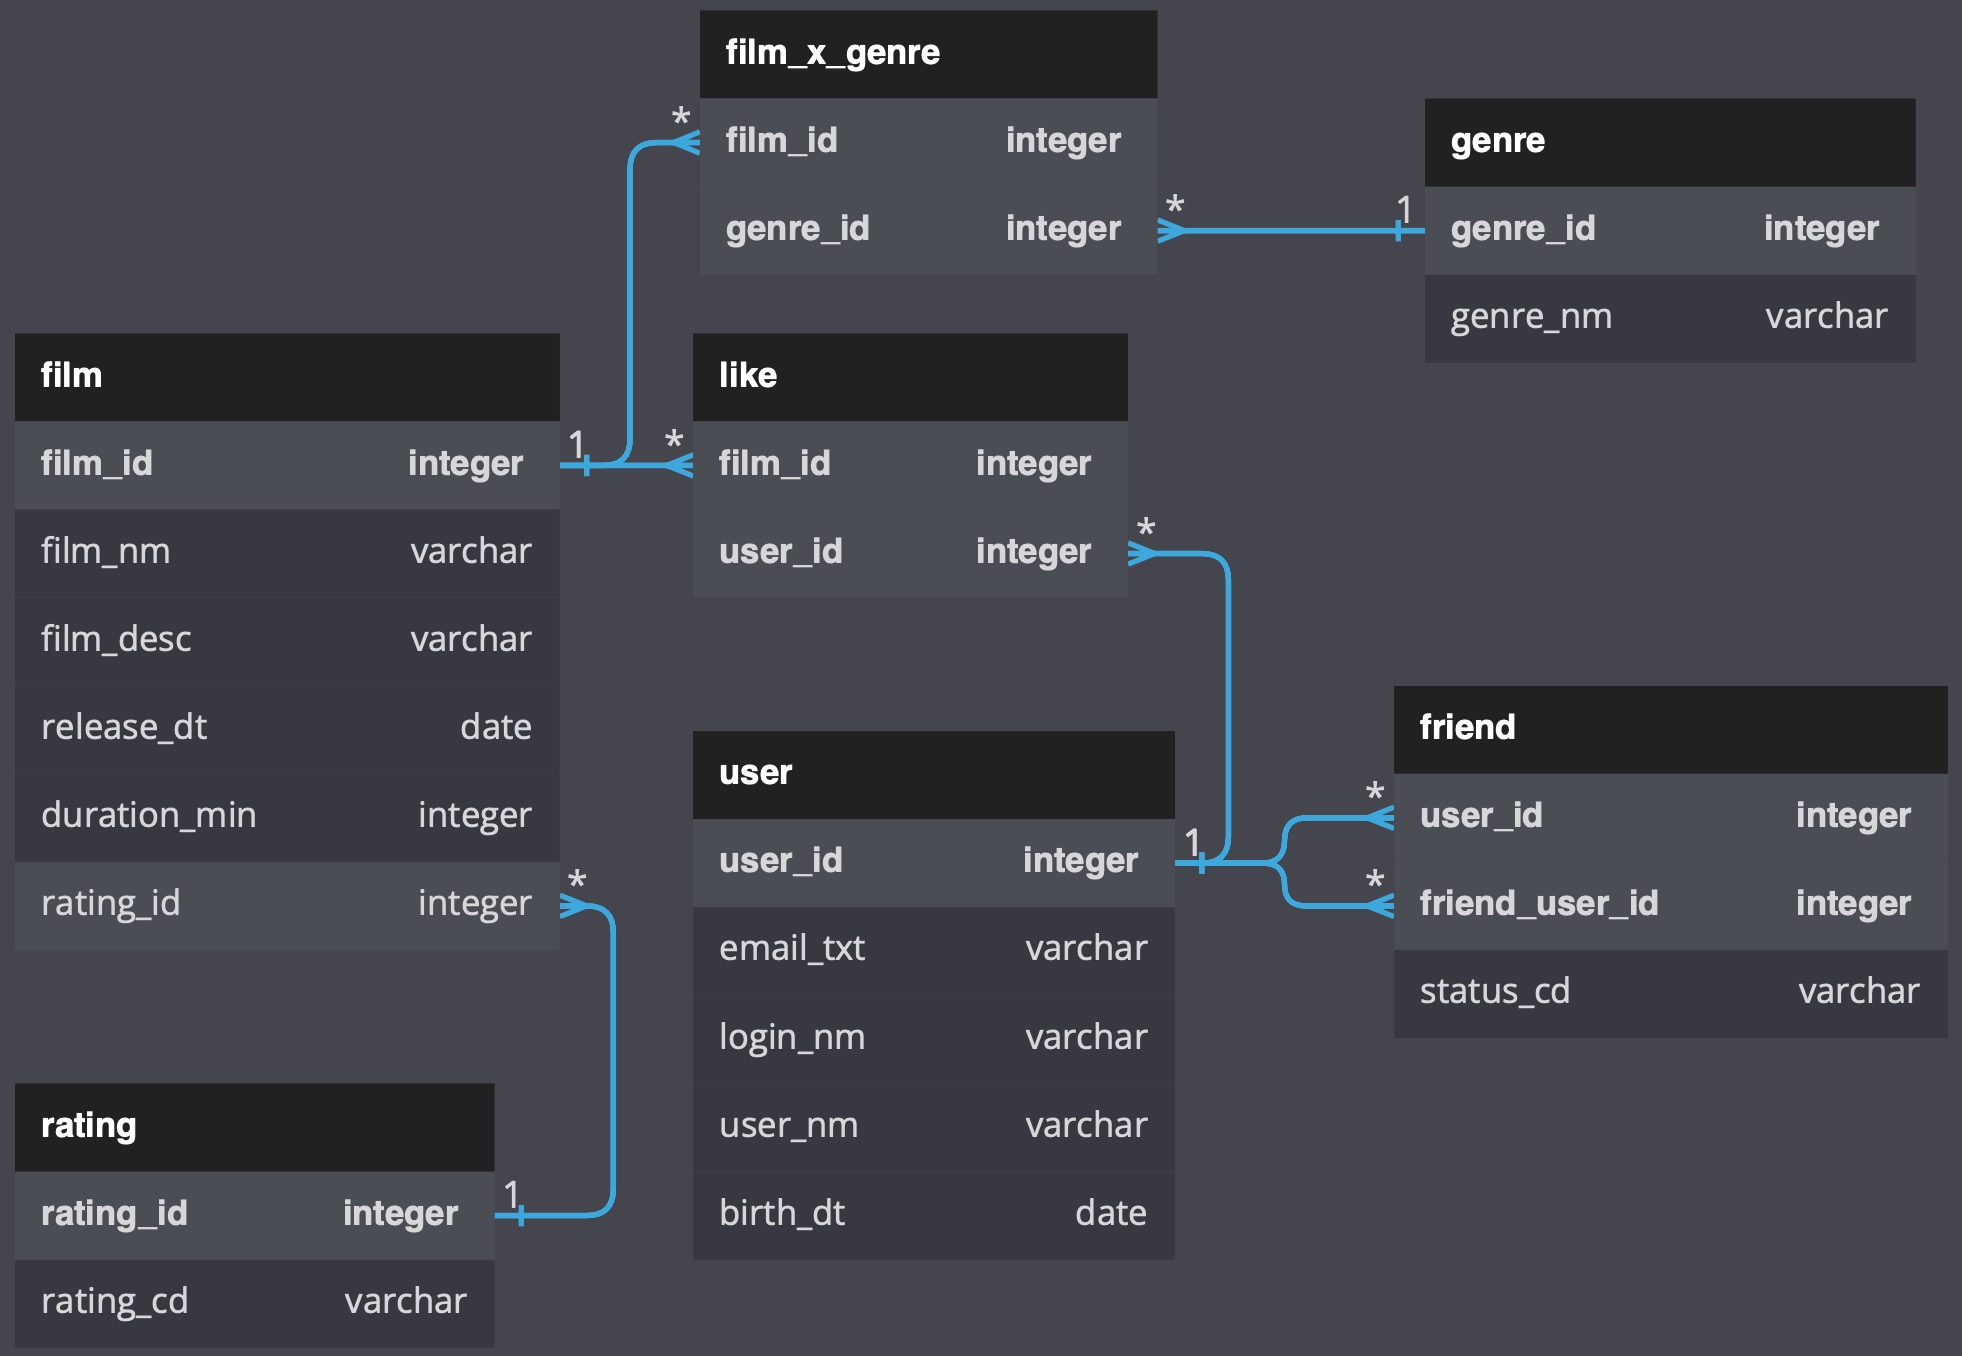
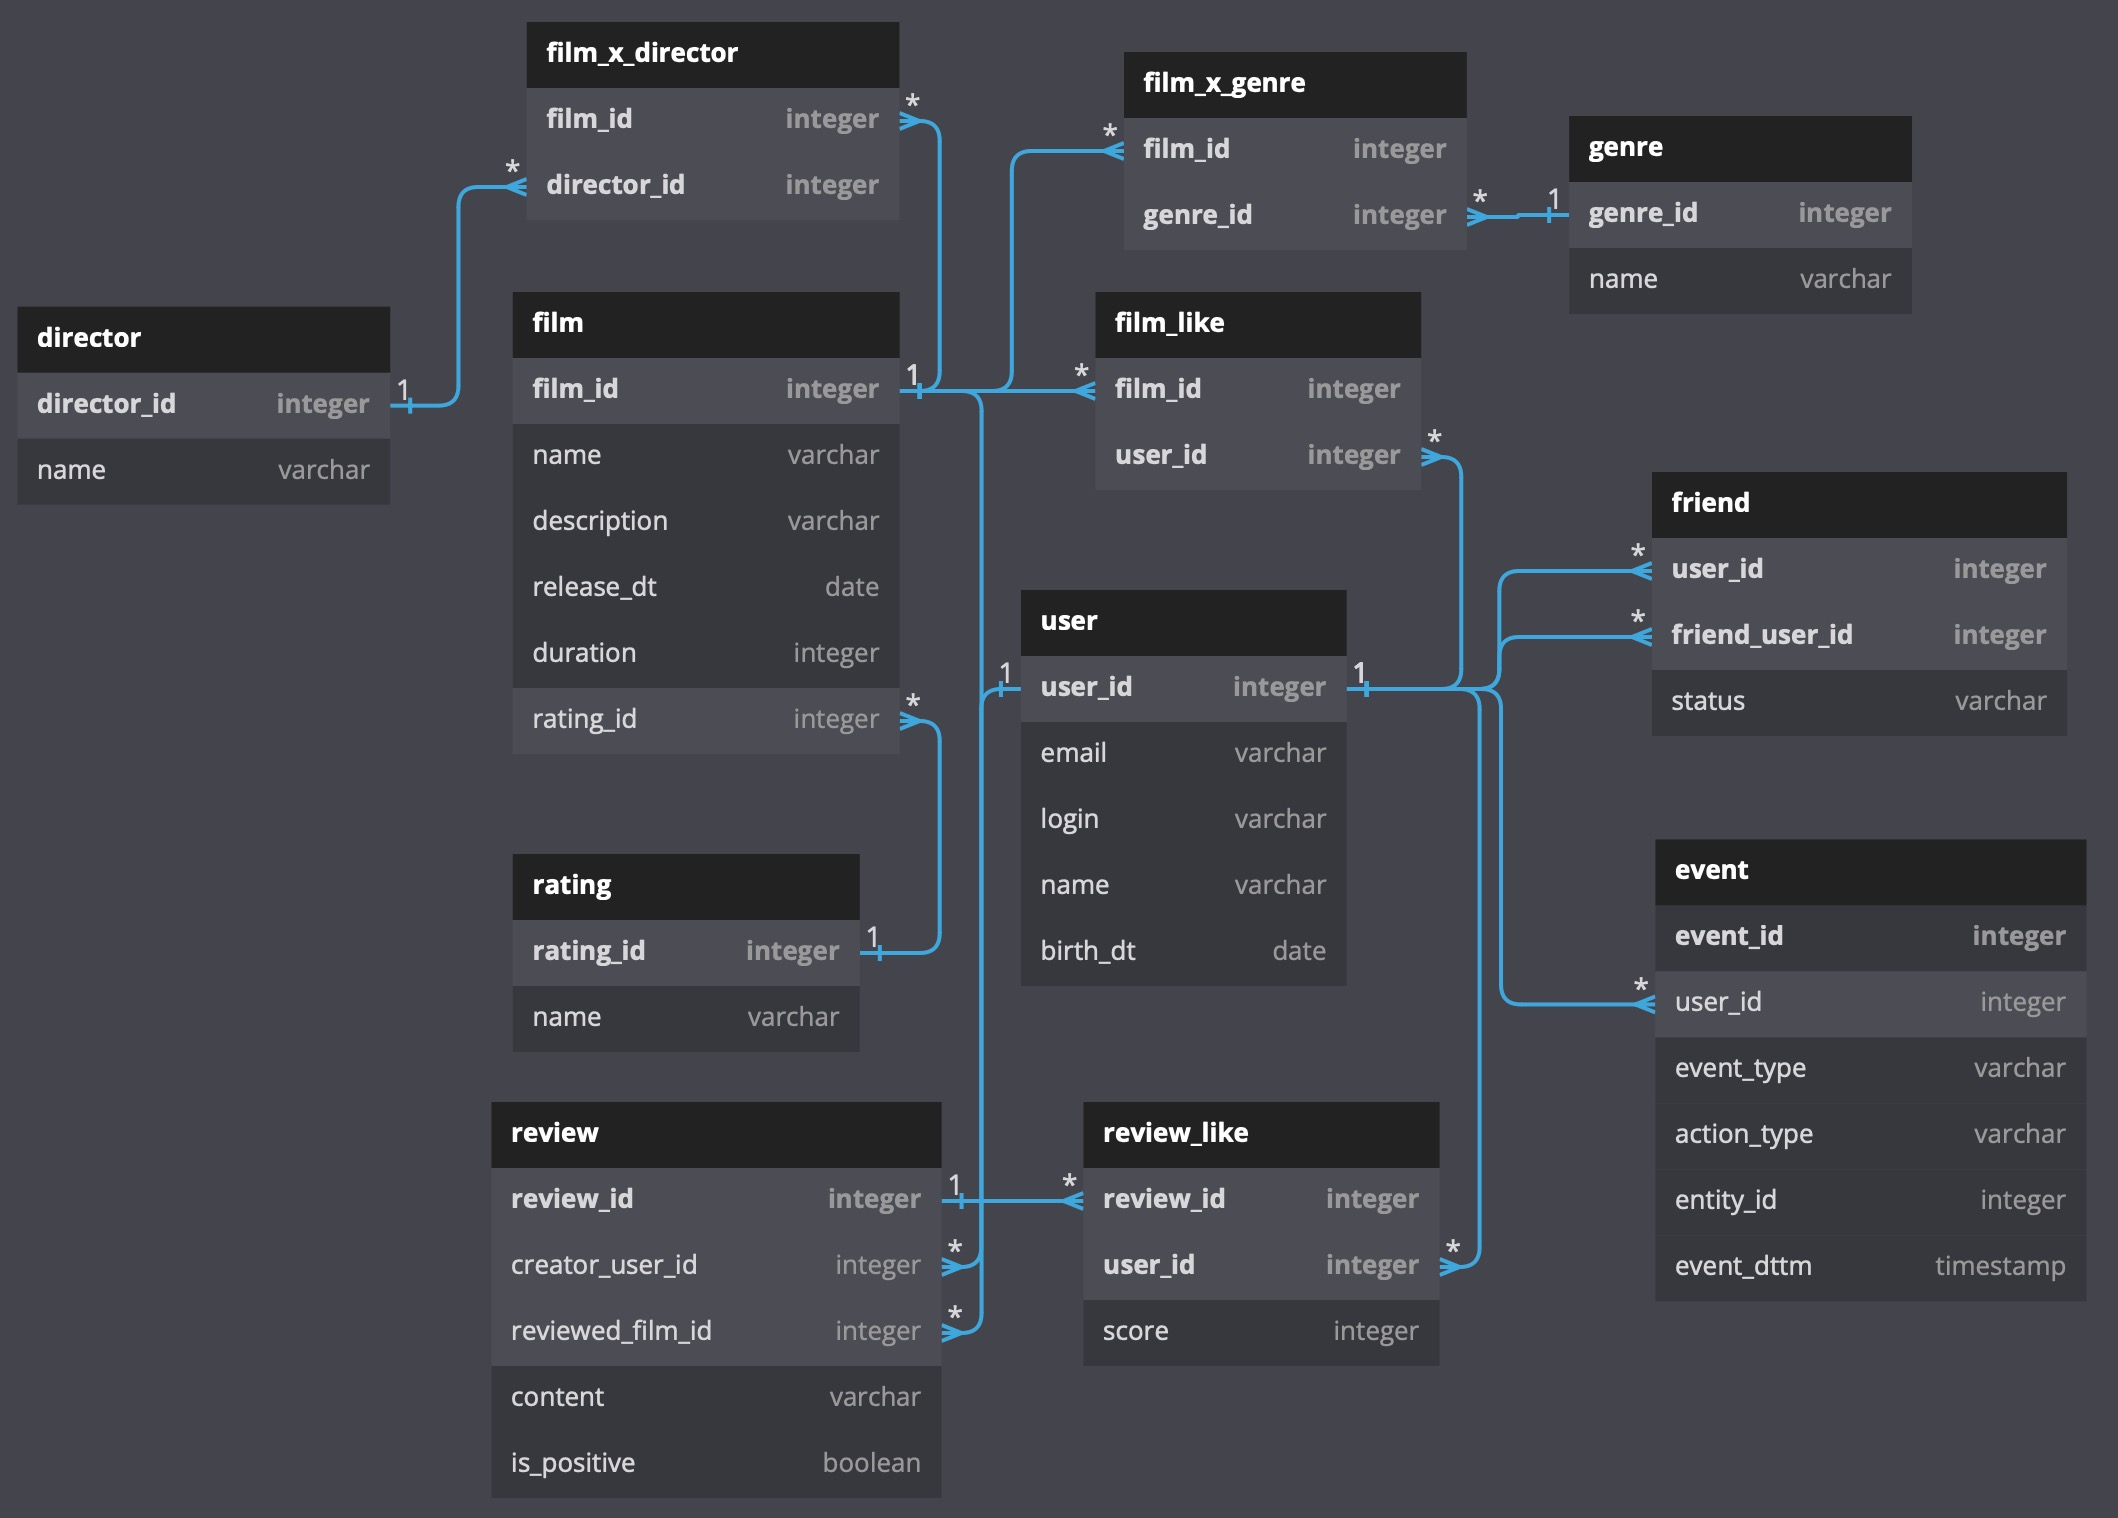
refactor: change db model to cover new features and team style convention

diff --git a/src/main/java/ru/yandex/practicum/filmorate/dao/impl/FilmDbStorage.java b/src/main/java/ru/yandex/practicum/filmorate/dao/impl/FilmDbStorage.java
@@ -33,7 +33,7 @@ public class FilmDbStorage implements FilmStorage {
     public Collection<Film> get() {
         String sqlQuery =
                 "SELECT *" +
-                        "FROM films";
+                        "FROM film";
 
         return jdbcTemplate.query(sqlQuery, (rs, rowNum) -> makeFilm(rs));
     }
@@ -42,7 +42,7 @@ public class FilmDbStorage implements FilmStorage {
     public Optional<Film> getById(int id) {
         String sqlQuery =
                 "SELECT * " +
-                        "FROM films " +
+                        "FROM film " +
                         "WHERE film_id = ?";
         List<Film> films = jdbcTemplate.query(sqlQuery, (rs, rowNum) -> makeFilm(rs), id);
 
@@ -58,7 +58,7 @@ public class FilmDbStorage implements FilmStorage {
     @Override
     public Film create(Film film) {
         String filmSqlQuery =
-                "INSERT INTO films (film_nm, film_desc, release_dt, duration_min, rating_id) " +
+                "INSERT INTO film (name, description, release_dt, duration, rating_id) " +
                         "VALUES (?, ?, ?, ?, ?)";
         KeyHolder keyHolder = new GeneratedKeyHolder();
         int updatedRowsCount = jdbcTemplate.update(connection -> {
@@ -102,8 +102,8 @@ public class FilmDbStorage implements FilmStorage {
     @Override
     public Optional<Film> update(Film film) {
         String filmSqlQuery =
-                "UPDATE films " +
-                        "SET film_nm = ?, film_desc = ?, release_dt = ?, duration_min = ?, rating_id = ? " +
+                "UPDATE film " +
+                        "SET name = ?, description = ?, release_dt = ?, duration = ?, rating_id = ? " +
                         "WHERE film_id = ?";
         int updatedRowsCount = jdbcTemplate.update(filmSqlQuery,
                 film.getName(),
@@ -148,7 +148,7 @@ public class FilmDbStorage implements FilmStorage {
     @Override
     public void addLike(Film film, User user) {
         String sqlQuery =
-                "MERGE INTO likes (film_id, user_id) " +
+                "MERGE INTO film_like (film_id, user_id) " +
                         "VALUES (?, ?)";
         jdbcTemplate.update(sqlQuery, film.getId(), user.getId());
     }
@@ -156,7 +156,7 @@ public class FilmDbStorage implements FilmStorage {
     @Override
     public void removeLike(Film film, User user) {
         String sqlQuery =
-                "DELETE FROM likes " +
+                "DELETE FROM film_like " +
                         "WHERE film_id = ? AND user_id = ?";
 
         jdbcTemplate.update(sqlQuery, film.getId(), user.getId());
@@ -165,10 +165,10 @@ public class FilmDbStorage implements FilmStorage {
     private Film makeFilm(ResultSet rs) throws SQLException {
         int filmId = rs.getInt("film_id");
         Film film = Film.builder()
-                .name(rs.getString("film_nm"))
-                .description(rs.getString("film_desc"))
+                .name(rs.getString("name"))
+                .description(rs.getString("description"))
                 .releaseDate(rs.getDate("release_dt").toLocalDate())
-                .duration(rs.getInt("duration_min"))
+                .duration(rs.getInt("duration"))
                 .mpa(mpaStorage.getById(rs.getInt("rating_id")).orElseGet(null))
                 .genres(getGenresByFilmId(filmId))
                 .likes(getLikesByFilmId(filmId))
@@ -194,7 +194,7 @@ public class FilmDbStorage implements FilmStorage {
     private Set<Integer> getLikesByFilmId(int filmId) {
         String sqlQuery =
                 "SELECT user_id " +
-                        "FROM likes " +
+                        "FROM film_like " +
                         "WHERE film_id = ?";
         List<Integer> likes = jdbcTemplate.queryForList(sqlQuery, Integer.class, filmId);
         return new HashSet<>(likes);

diff --git a/src/main/java/ru/yandex/practicum/filmorate/dao/impl/UserDbStorage.java b/src/main/java/ru/yandex/practicum/filmorate/dao/impl/UserDbStorage.java
@@ -28,7 +28,7 @@ public class UserDbStorage implements UserStorage {
     public Collection<User> get() {
         String sqlQuery =
                 "SELECT * " +
-                        "FROM users ";
+                        "FROM \"user\" ";
 
         return jdbcTemplate.query(sqlQuery, (rs, rowNum) -> makeUser(rs));
     }
@@ -37,7 +37,7 @@ public class UserDbStorage implements UserStorage {
     public Optional<User> getById(int id) {
         String sqlQuery =
                 "SELECT * " +
-                        "FROM users " +
+                        "FROM \"user\" " +
                         "WHERE user_id = ?";
         List<User> users = jdbcTemplate.query(sqlQuery, (rs, rowNum) -> makeUser(rs), id);
 
@@ -53,7 +53,7 @@ public class UserDbStorage implements UserStorage {
     @Override
     public User create(User user) {
         String userSqlQuery =
-                "INSERT INTO users (email_txt, login_nm, user_nm, birth_dt) " +
+                "INSERT INTO \"user\" (email, login, name, birth_dt) " +
                         "VALUES (?, ?, ?, ?)";
         KeyHolder keyHolder = new GeneratedKeyHolder();
         int updatedRowsCount = jdbcTemplate.update(connection -> {
@@ -81,8 +81,8 @@ public class UserDbStorage implements UserStorage {
     @Override
     public Optional<User> update(User user) {
         String userSqlQuery =
-                "UPDATE users " +
-                        "SET email_txt = ?, login_nm = ?, user_nm = ?, birth_dt = ? " +
+                "UPDATE \"user\" " +
+                        "SET email = ?, login = ?, name = ?, birth_dt = ? " +
                         "WHERE user_id = ?";
         int updatedRowsCount = jdbcTemplate.update(userSqlQuery,
                 user.getEmail(),
@@ -105,7 +105,7 @@ public class UserDbStorage implements UserStorage {
     @Override
     public void addFriend(User user, User friend) {
         String sqlQuery =
-                "MERGE INTO friends (user_id, friend_user_id) " +
+                "MERGE INTO friend (user_id, friend_user_id) " +
                         "VALUES (?, ?)";
         jdbcTemplate.update(sqlQuery, user.getId(), friend.getId());
     }
@@ -113,7 +113,7 @@ public class UserDbStorage implements UserStorage {
     @Override
     public void removeFriend(User user, User friend) {
         String sqlQuery =
-                "DELETE FROM friends " +
+                "DELETE FROM friend " +
                         "WHERE user_id = ? AND friend_user_id = ?";
         jdbcTemplate.update(sqlQuery, user.getId(), friend.getId());
     }
@@ -121,9 +121,9 @@ public class UserDbStorage implements UserStorage {
     private User makeUser(ResultSet rs) throws SQLException {
         int userId = rs.getInt("user_id");
         User user = User.builder()
-                .name(rs.getString("user_nm"))
-                .email(rs.getString("email_txt"))
-                .login(rs.getString("login_nm"))
+                .name(rs.getString("name"))
+                .email(rs.getString("email"))
+                .login(rs.getString("login"))
                 .birthday(rs.getDate("birth_dt").toLocalDate())
                 .friends(getFriendsByUserId(userId))
                 .build();
@@ -134,7 +134,7 @@ public class UserDbStorage implements UserStorage {
     private HashSet<Integer> getFriendsByUserId(int userId) {
         String sql =
                 "SELECT friend_user_id " +
-                        "FROM friends " +
+                        "FROM friend " +
                         "WHERE user_id = ?";
         List<Integer> friends = jdbcTemplate.queryForList(sql, Integer.class, userId);
         return new HashSet<>(friends);

diff --git a/src/main/java/ru/yandex/practicum/filmorate/dao/impl/GenreDbStorage.java b/src/main/java/ru/yandex/practicum/filmorate/dao/impl/GenreDbStorage.java
@@ -47,6 +47,6 @@ public class GenreDbStorage implements GenreStorage {
     }
 
     private Genre makeGenre(ResultSet rs) throws SQLException {
-        return new Genre(rs.getInt("genre_id"), rs.getString("genre_nm"));
+        return new Genre(rs.getInt("genre_id"), rs.getString("name"));
     }
 }

diff --git a/src/main/java/ru/yandex/practicum/filmorate/dao/impl/MPADbStorage.java b/src/main/java/ru/yandex/practicum/filmorate/dao/impl/MPADbStorage.java
@@ -46,6 +46,6 @@ public class MPADbStorage implements MPAStorage {
     }
 
     private MPA makeMPA(ResultSet rs) throws SQLException {
-        return new MPA(rs.getInt("rating_id"), rs.getString("rating_cd"));
+        return new MPA(rs.getInt("rating_id"), rs.getString("name"));
     }
 }
